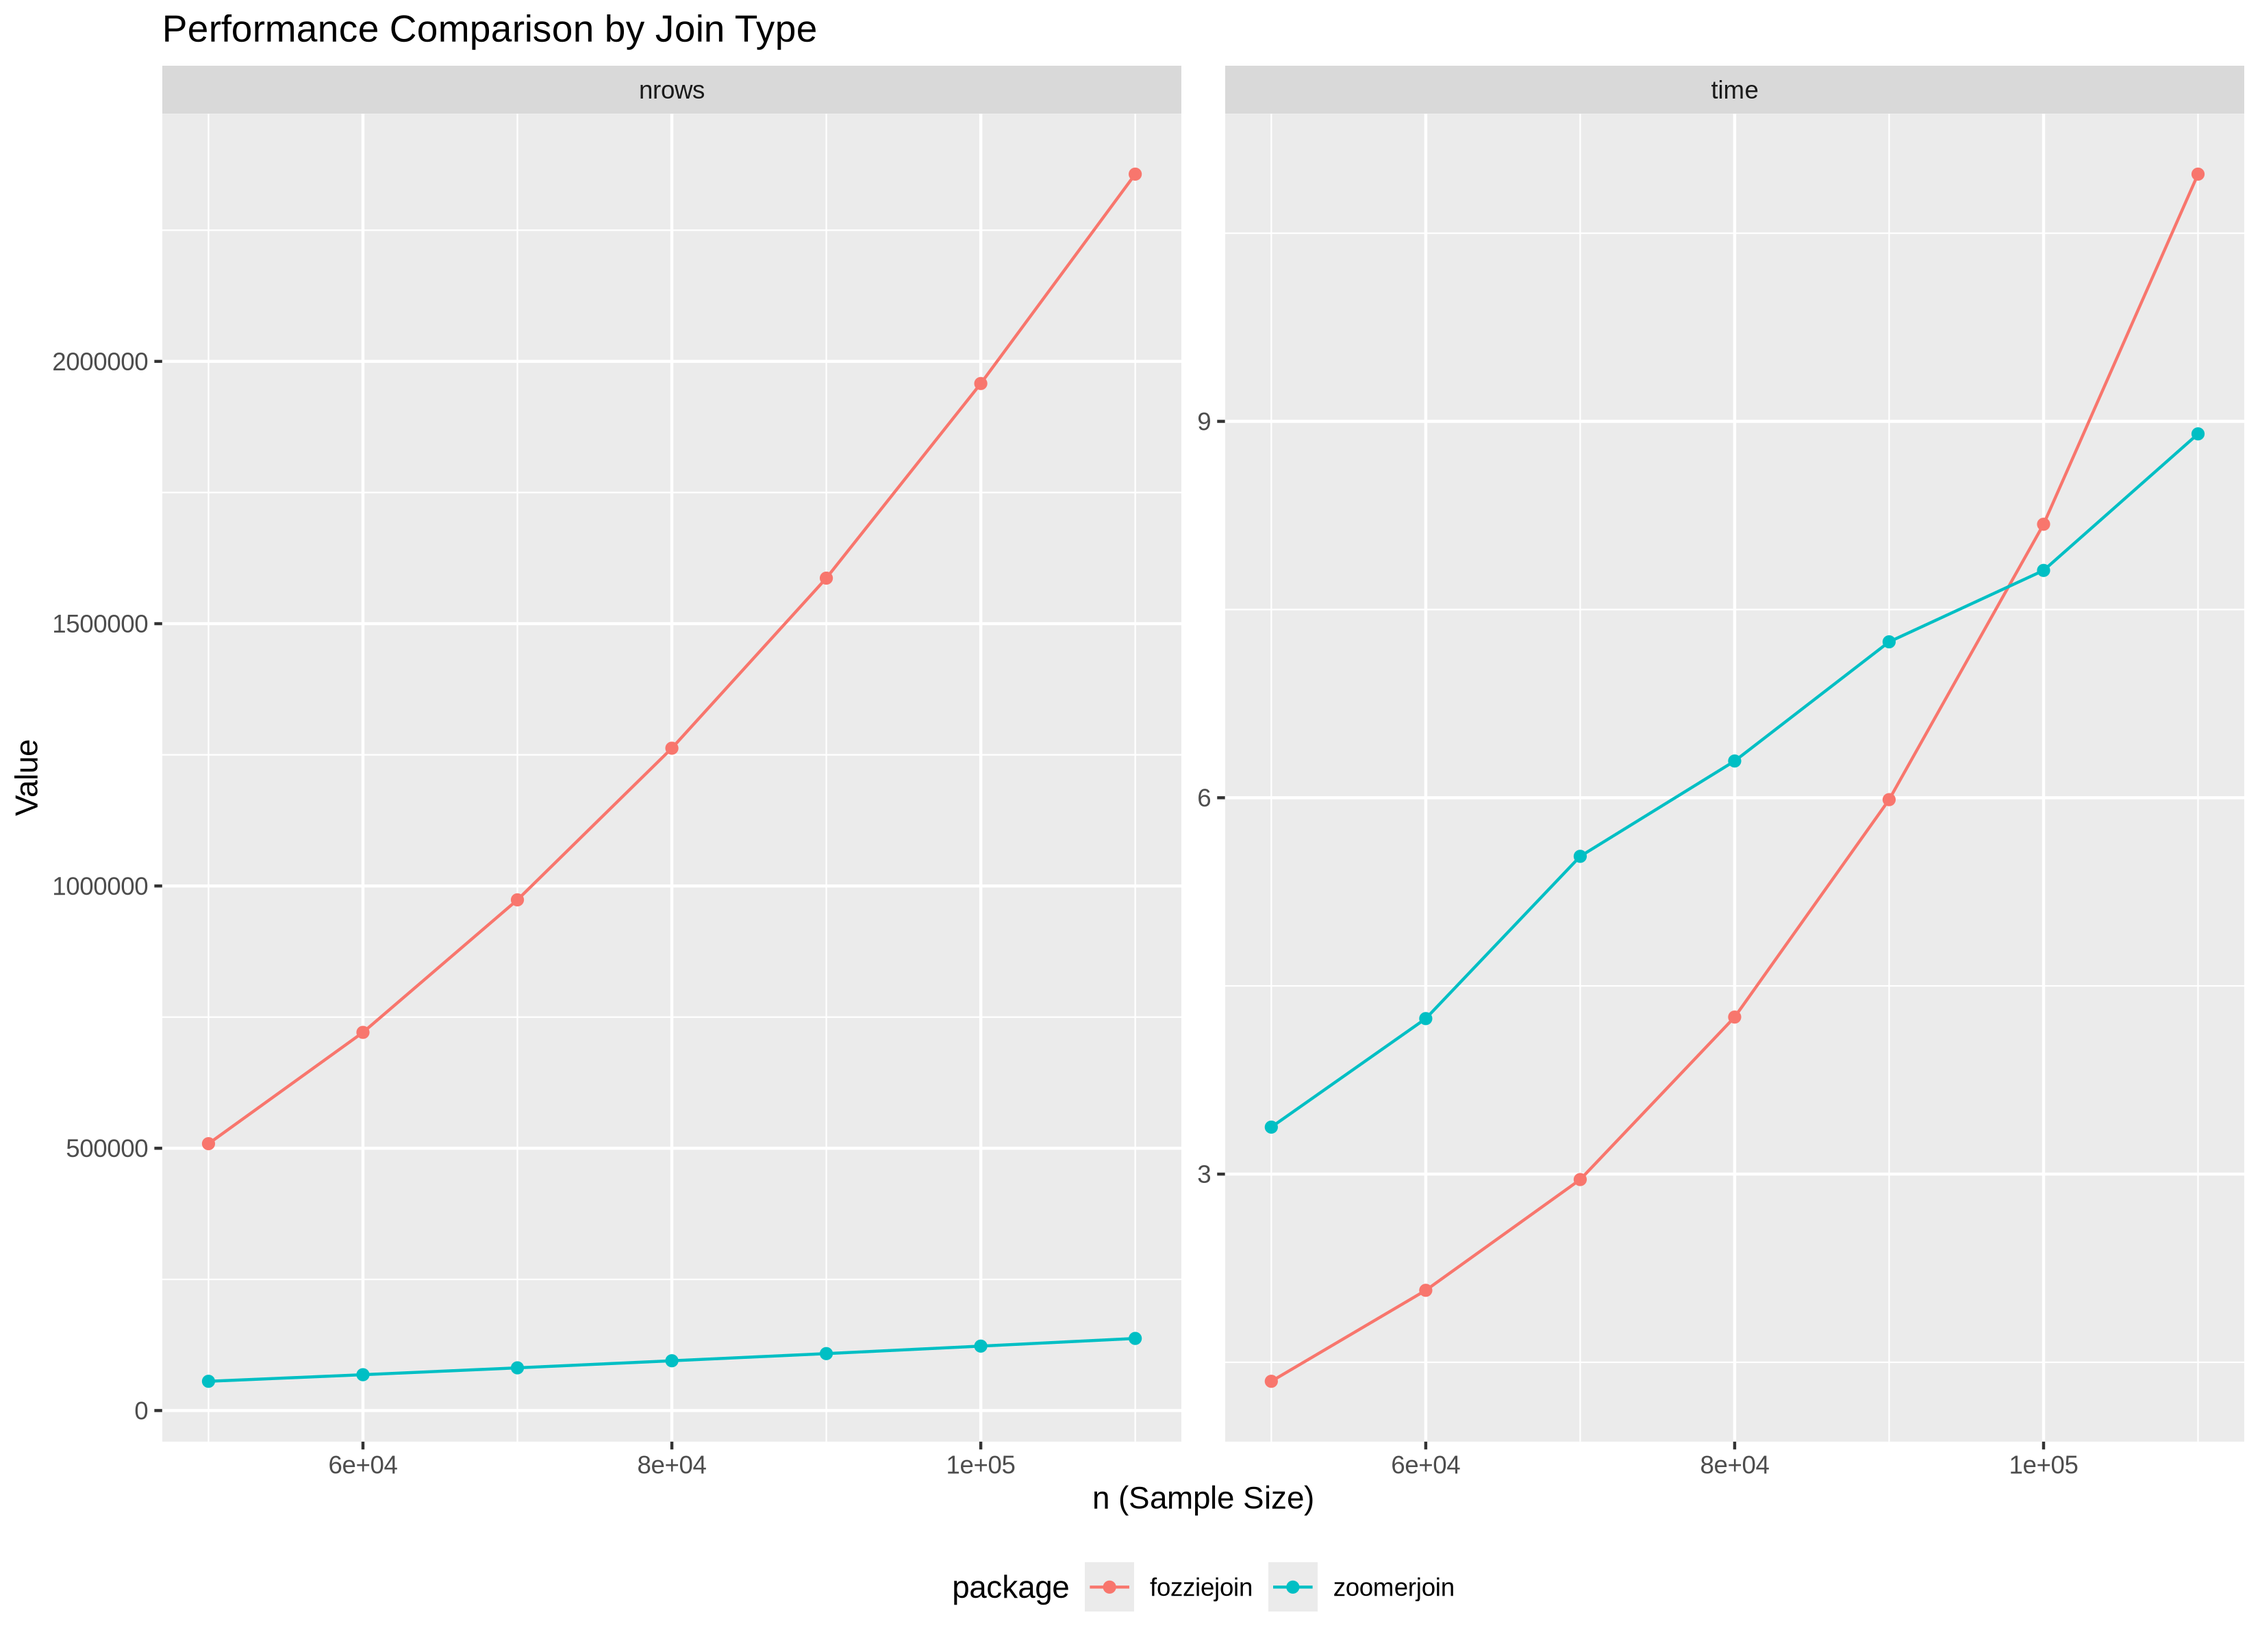
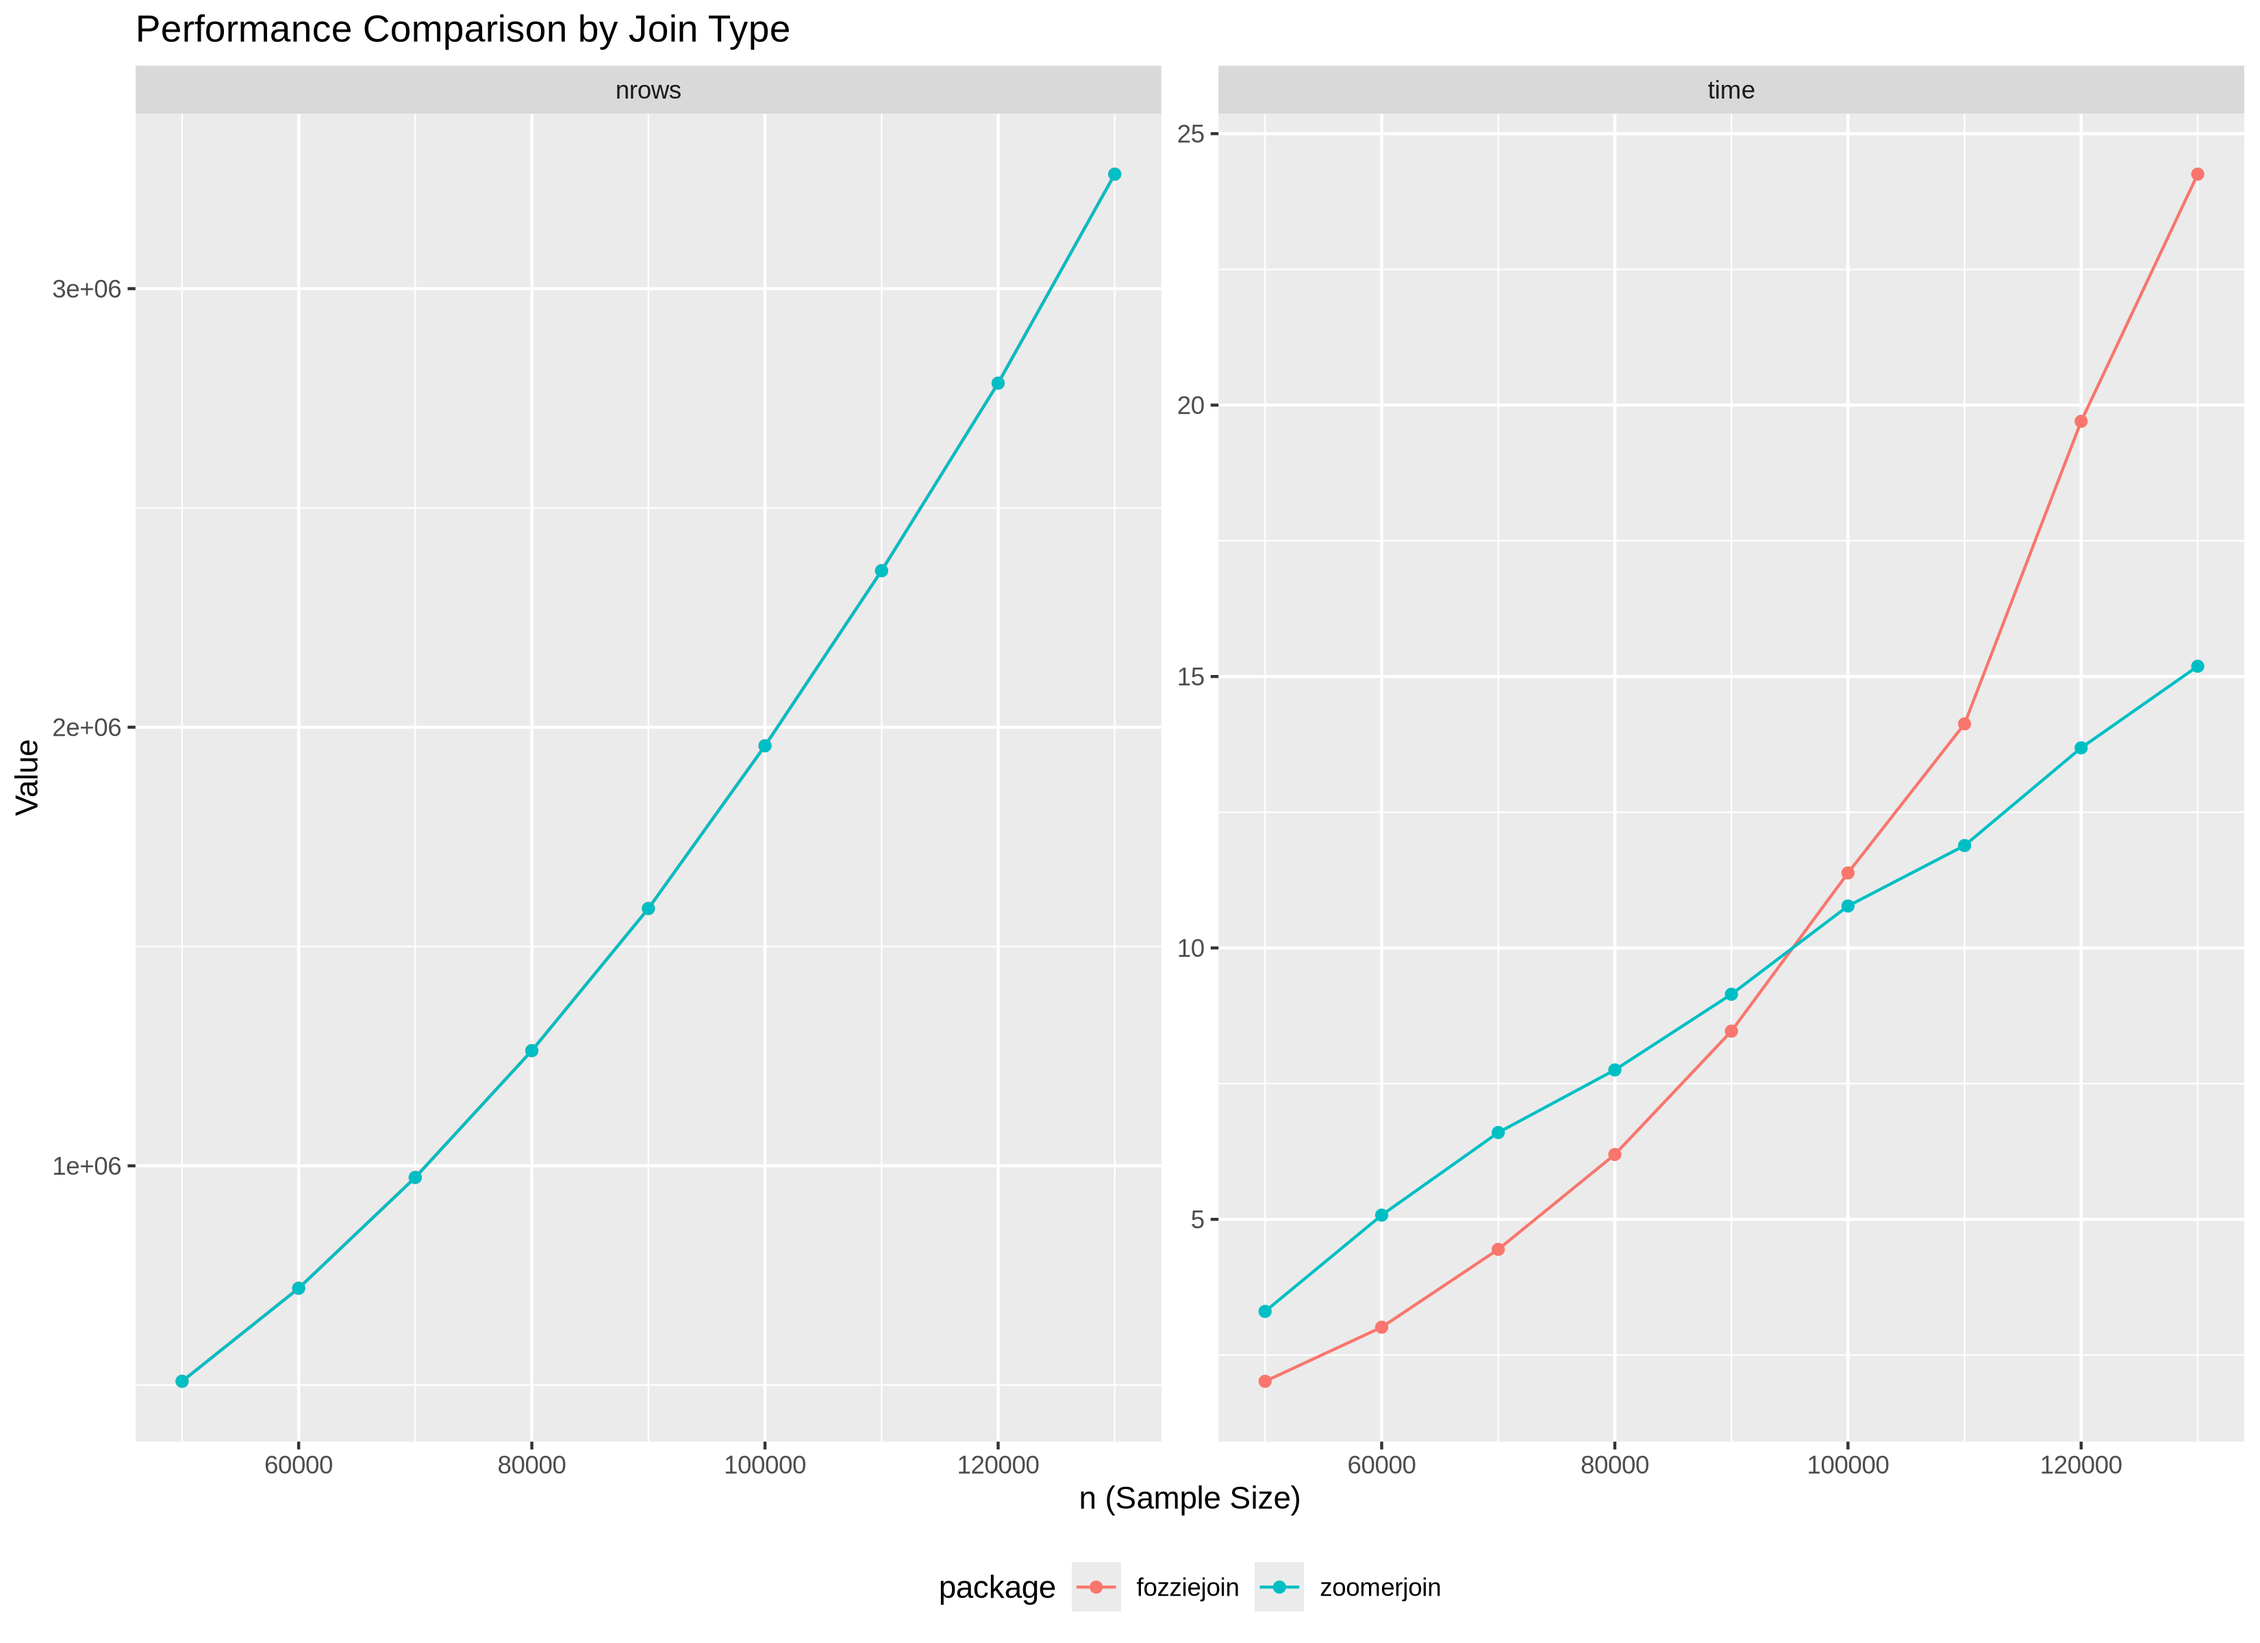
Benchmarks now more standardized. Results updated for bandwidth of 8 and 4

diff --git a/README.md b/README.md
@@ -9,7 +9,7 @@ and `fozziejoin`. Goal is to identify use cases for each.
 
 ```sh
 git clone https://github.com/JonDDowns/zoomer_fozzie_comp
-cd ./zoomer_cozzie_comp
+cd ./zoomer_fozzie_comp
 ```
 
 ### Install fozziejoin
